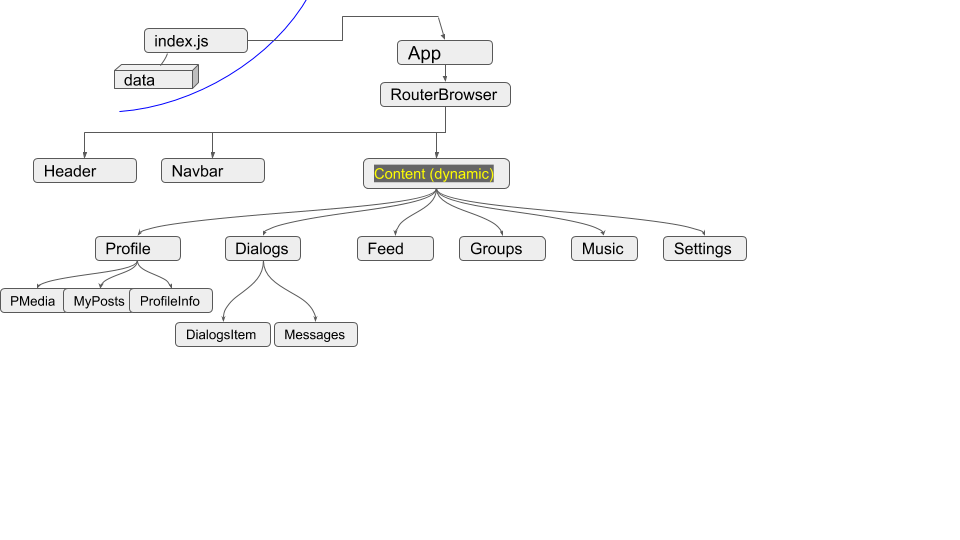
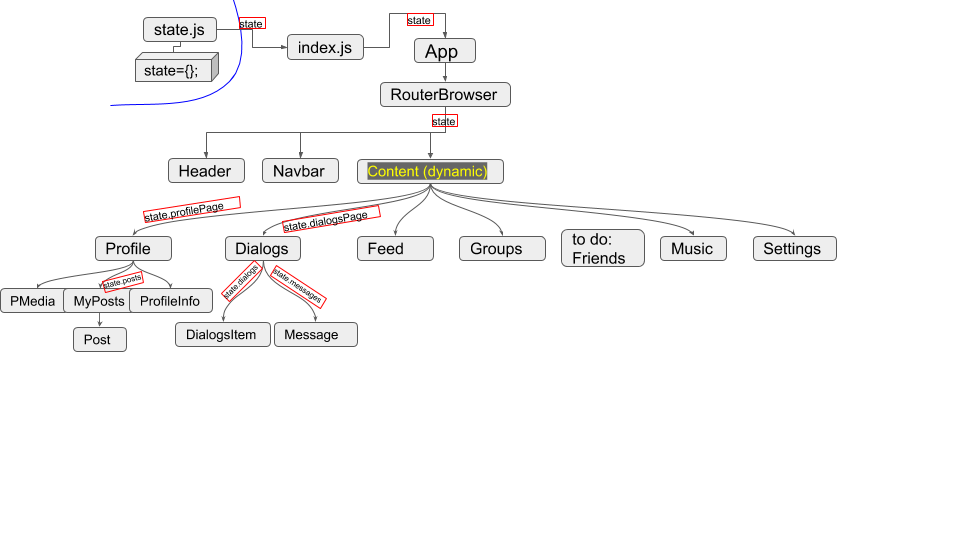
state.js is now source of data

diff --git a/src/index.js b/src/index.js
@@ -3,32 +3,11 @@ import ReactDOM from 'react-dom';
 import './index.css';
 import App from './App';
 import reportWebVitals from './reportWebVitals';
-
-let posts = [
-    {id:1,        message:"Is it your first day on the internet lmao",  name:"Kabluk Jma",      likes:69, img:"https://encrypted-tbn0.gstatic.com/images?q=tbn%3AANd9GcSm_fOn75B7WzCl9gIhBqAqjiSmCIqwdQrDEHzf0HTIfCqCq1Vj71iszAMirZc4alSA0ygIgWxOAY5fiSypsQTCvd6r4uNmGqjt70ueivg&usqp=CAU&ec=45725303"},
-    {id:2,        message:"Nice dck bro",                               name: "Fikalis Anton",  likes:100,img:"https://i.pinimg.com/564x/f1/23/05/f1230501d33cb2c6055b2d6ea221a22d.jpg"},
-    {id:3,        message:"would you simp for me",                      name: "Kakun Barov",    likes:14, img:"https://media.tenor.com/images/c50ba1f5c34496af4f9eb2a805ef29ea/tenor.gif"},
-    {id:4,        message:"каво",                                       name:"Big Brother",     likes:26, img:"https://encrypted-tbn0.gstatic.com/images?q=tbn%3AANd9GcRB_mt5A7b2-UR_9NKmESs-1OJ9-daZW9xaeg&usqp=CAU"},
-    {id:5,        message:"это я, упал намоченный генерал",             name:"Герой Украины",   likes:61, img:"https://pbs.twimg.com/media/C5AmsxoWIAAWlfS.jpg"},
-]
-let dialogs = [
-    {name:"Sobaka", id:19700291,        img:"https://img.webmd.com/dtmcms/live/webmd/consumer_assets/site_images/article_thumbnails/slideshows/people_foods_cats_can_eat_slideshow/1800x1200_people_foods_cats_can_eat_slideshow.jpg" },
-    {name:"Pes",    id:19700292,        img:"https://www.newshub.co.nz/dam/form-uploaded-images-ordered/2019/08/08/KNOWYOURMEME-sad-cat-crying-1120.JPG" },
-    {name:"Kevin",  id:19700293,        img:"https://i.pinimg.com/originals/2f/66/ab/2f66abb007554ade8d4ee784259c1322.jpg" },
-    {name:"Baksss", id:19700294,        img:"https://i.imgflip.com/3aun8x.jpg" },
-    {name:"Valera", id:19700295,        img:"https://cnet2.cbsistatic.com/img/S8WsucQh6wWeUG1yrQi66jKNtto=/940x0/2020/09/22/ad4bd31b-cf8c-46f5-aa70-231df9acc041/longcat.jpg" },
-    {name:"Oreo",   id:19700296,        img:"https://i.pinimg.com/originals/3c/43/79/3c43793225d7167513691eb2a525df2e.jpg" },
-]
-let messages = [
-    {id:1,        text:"iuwbipudscvpsiudvo dasoduo wdu qiwdbiu" },
-    {id:2,        text:"это сарказм?" },
-    {id:3,        text:"tenet apero rotas" },
-    {id:4,        text:"каво" },
-]
+import state from './redux/state'
 
 ReactDOM.render(
   <React.StrictMode>
-    <App posts dialogs messages/>
+    <App state={state}/>
   </React.StrictMode>,
   document.getElementById('root')
 );

diff --git a/src/redux/state.js b/src/redux/state.js
@@ -1,0 +1,30 @@
+let state= {
+    profilePage: {
+        posts: [
+            {id:1,        message:"Is it your first day on the internet lmao",  name:"Kabluk Jma",      likes:69, img:"https://encrypted-tbn0.gstatic.com/images?q=tbn%3AANd9GcSm_fOn75B7WzCl9gIhBqAqjiSmCIqwdQrDEHzf0HTIfCqCq1Vj71iszAMirZc4alSA0ygIgWxOAY5fiSypsQTCvd6r4uNmGqjt70ueivg&usqp=CAU&ec=45725303"},
+            {id:2,        message:"Nice dck bro",                               name: "Fikalis Anton",  likes:100,img:"https://i.pinimg.com/564x/f1/23/05/f1230501d33cb2c6055b2d6ea221a22d.jpg"},
+            {id:3,        message:"would you simp for me",                      name: "Kakun Barov",    likes:14, img:"https://media.tenor.com/images/c50ba1f5c34496af4f9eb2a805ef29ea/tenor.gif"},
+            {id:4,        message:"каво",                                       name:"Big Brother",     likes:26, img:"https://encrypted-tbn0.gstatic.com/images?q=tbn%3AANd9GcRB_mt5A7b2-UR_9NKmESs-1OJ9-daZW9xaeg&usqp=CAU"},
+            {id:5,        message:"это я, упал намоченный генерал",             name:"Герой Украины",   likes:61, img:"https://pbs.twimg.com/media/C5AmsxoWIAAWlfS.jpg"},
+        ],
+    },
+    dialogsPage: {
+        dialogs: [
+            {name:"Sobaka", id:19700291,        img:"https://img.webmd.com/dtmcms/live/webmd/consumer_assets/site_images/article_thumbnails/slideshows/people_foods_cats_can_eat_slideshow/1800x1200_people_foods_cats_can_eat_slideshow.jpg" },
+            {name:"Pes",    id:19700292,        img:"https://www.newshub.co.nz/dam/form-uploaded-images-ordered/2019/08/08/KNOWYOURMEME-sad-cat-crying-1120.JPG" },
+            {name:"Kevin",  id:19700293,        img:"https://i.pinimg.com/originals/2f/66/ab/2f66abb007554ade8d4ee784259c1322.jpg" },
+            {name:"Baksss", id:19700294,        img:"https://i.imgflip.com/3aun8x.jpg" },
+            {name:"Valera", id:19700295,        img:"https://cnet2.cbsistatic.com/img/S8WsucQh6wWeUG1yrQi66jKNtto=/940x0/2020/09/22/ad4bd31b-cf8c-46f5-aa70-231df9acc041/longcat.jpg" },
+            {name:"Oreo",   id:19700296,        img:"https://i.pinimg.com/originals/3c/43/79/3c43793225d7167513691eb2a525df2e.jpg" },
+        ],
+        messages: [
+            {id:1,        text:"iuwbipudscvpsiudvo dasoduo wdu qiwdbiu" },
+            {id:2,        text:"это сарказм?" },
+            {id:3,        text:"tenet apero rotas" },
+            {id:4,        text:"каво" },
+        ]
+    },
+    sidebar: {}
+}
+
+export default state;

diff --git a/src/App.js b/src/App.js
@@ -17,8 +17,8 @@ function App(props) {
                 <Navbar/>
                 <div className='app-wrapper-content'>
                    {/* <Route path="" render={() => (<Redirect to="/profile"/>)}/>*/}
-                    <Route path="/dialogs"  render={() => <Dialogs dialogs={props.dialogs} messages={props.messages} />}/>
-                    <Route path="/profile"  render={() => <Profile posts={props.posts} />}/>
+                    <Route path="/dialogs"  render={() => <Dialogs state={props.state.dialogsPage} />}/>
+                    <Route path="/profile"  render={() => <Profile state={props.state.profilePage} />}/>
                     <Route path="/feed"     render={() => <Feed />}/>
                     <Route path="/groups"   render={() => <Groups />}/>
                     <Route path="/music"    render={() => <Music />}/>

diff --git a/src/components/Dialogs/Dialogs.jsx b/src/components/Dialogs/Dialogs.jsx
@@ -3,8 +3,8 @@ import DialogItem from "./DialogItem/DialogItem";
 import Message from "./Messages/Message/Message";
 
 function Dialogs(props) {
-    let dialogsElements = props.dialogs.map(d => <DialogItem name={d.name}   id={d.id}     img={d.img}/>);
-    let messagesElements = props.messages.map(m => <Message id={m.id} message={m.text}/>);
+    let dialogsElements = props.state.dialogs.map(d => <DialogItem name={d.name}   id={d.id}     img={d.img}/>);
+    let messagesElements = props.state.messages.map(m => <Message id={m.id} message={m.text}/>);
 
     return (
         <div className={st.dialogs}>

diff --git a/src/components/Profile/MyPosts/MyPosts.jsx b/src/components/Profile/MyPosts/MyPosts.jsx
@@ -2,7 +2,7 @@ import st from "./MyPosts.module.css";
 import Post from "./Post/Post";
 
 function MyPosts(props) {
-    let postsElements = props.posts.map(p => <Post name={p.name} message={p.message} likes={p.likes} img={p.img}/>)
+    let postsElements = props.posts.map(p => <Post name={p.name} message={p.message} likes={p.likes} img={p.img}/>);
 
     return (
         <div>

diff --git a/src/components/Profile/Profile.jsx b/src/components/Profile/Profile.jsx
@@ -8,7 +8,7 @@ function Profile(props) {
         <div className={st.grid}>
             <div>
                 <ProfileInfo />
-                <MyPosts posts={props.posts} />
+                <MyPosts posts={props.state.posts} />
             </div>
             <div className={st.mediaBlock}>
                 <PMedia/>

diff --git a/src/components/Header/Header.jsx b/src/components/Header/Header.jsx
@@ -1,4 +1,4 @@
-import logo from "../../img/logoBID3s.png";
+import logo from "./logoBID3s.png";
 import st from './Header.module.css';
 
 function Header() {
